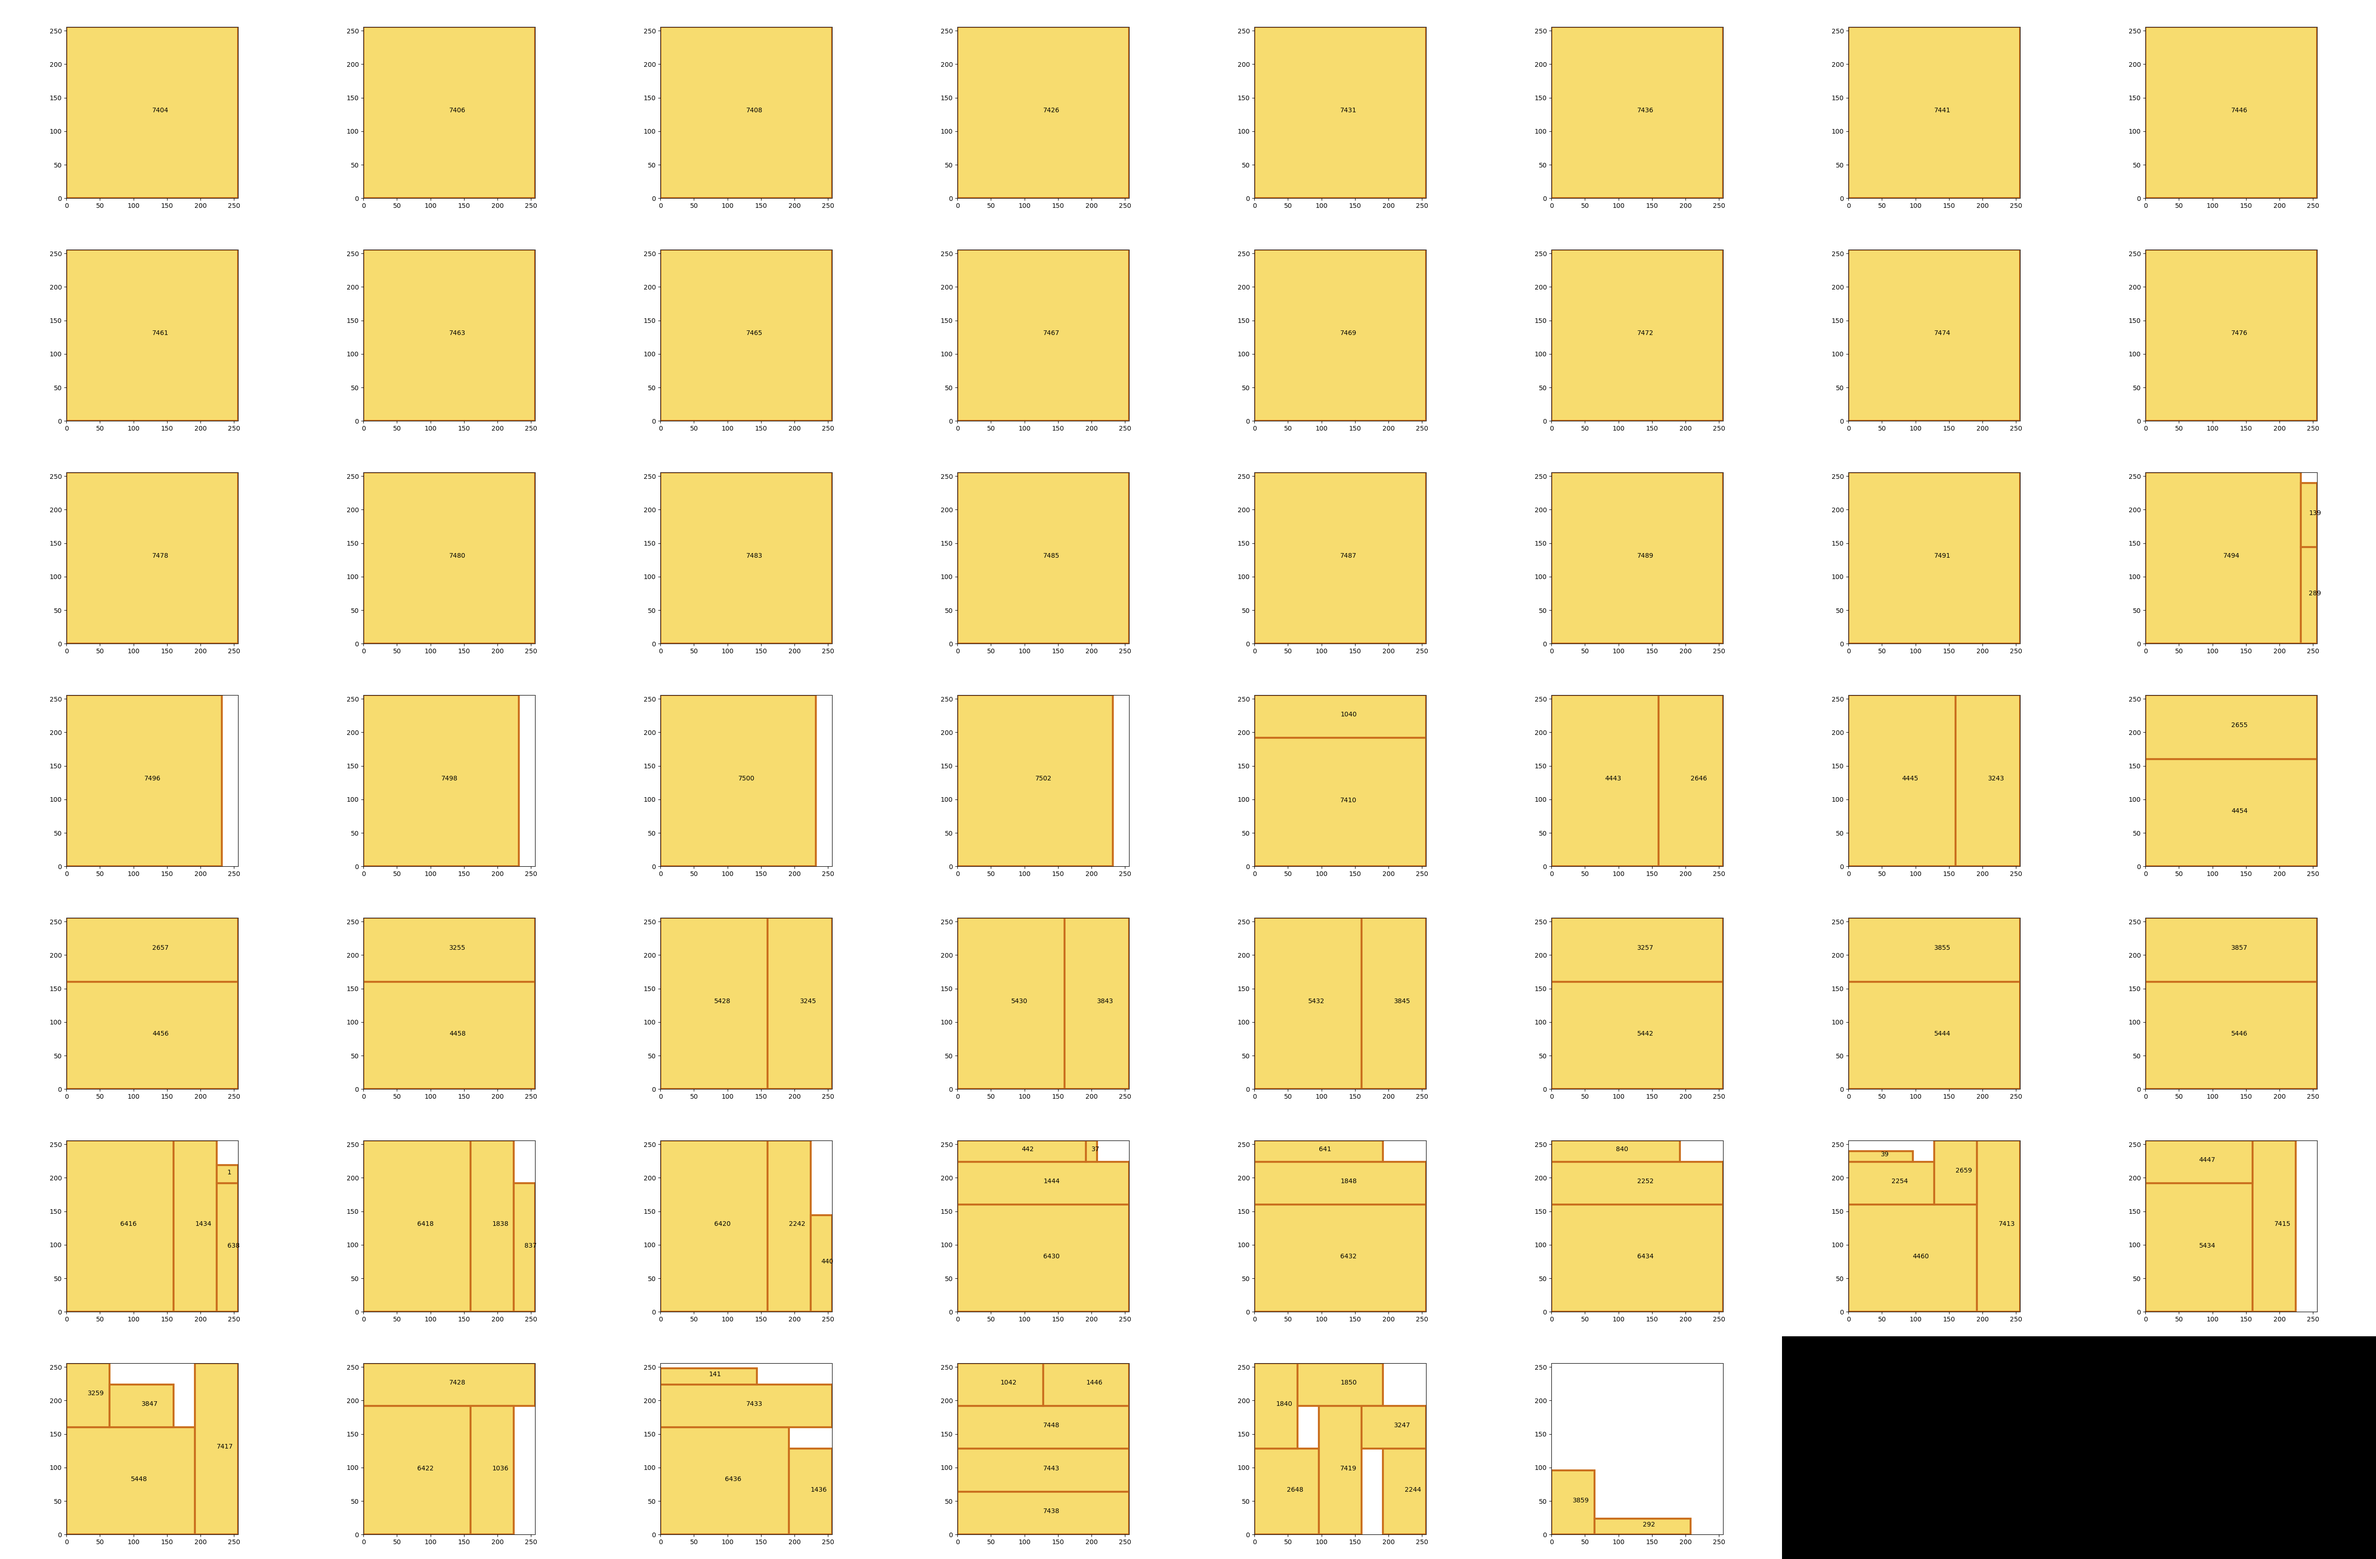
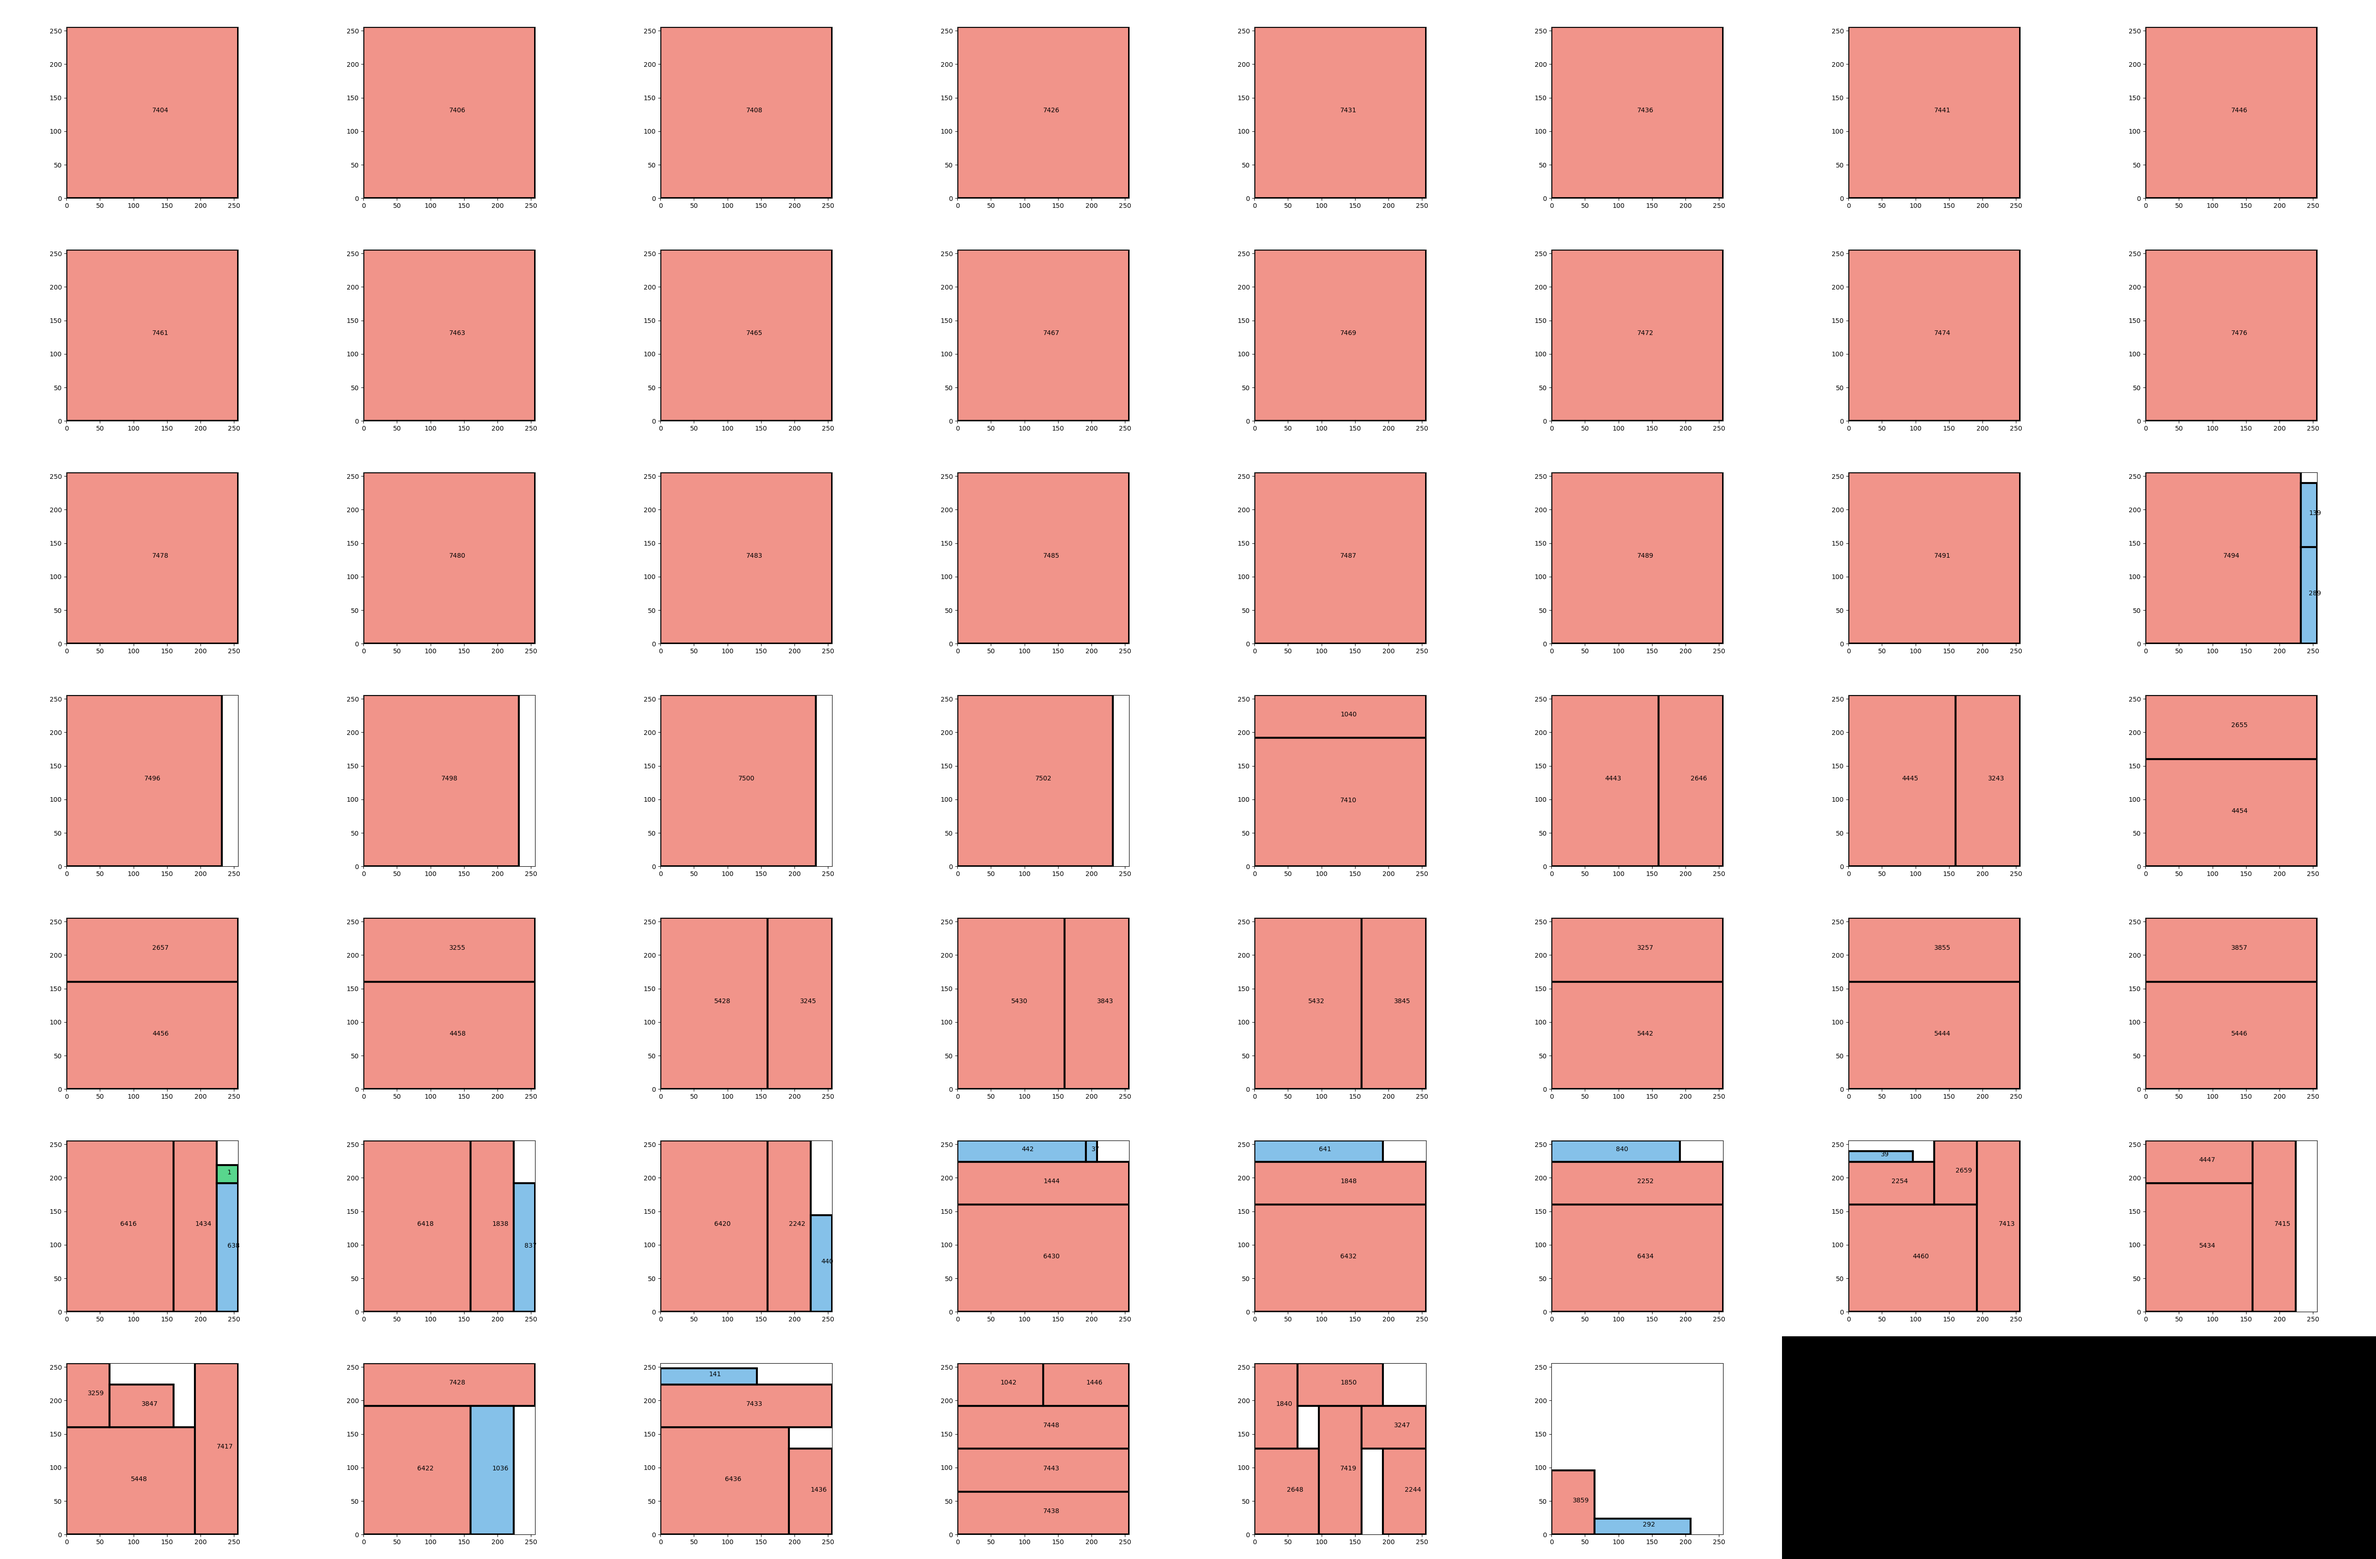
coloring by separable type

diff --git a/hwacctools/bin_packing/packer_utils.py b/hwacctools/bin_packing/packer_utils.py
@@ -5,6 +5,7 @@ import matplotlib.pyplot as plt
 from matplotlib import patches
 import os
 from tqdm import tqdm
+from PIL import Image
 
 def plot_bins(packer,
                  dir : str
@@ -47,6 +48,7 @@ def plot_bins(packer,
 def plot_packing(packer,
                  filename : str,
                  tile_count_h : int = 8,
+                 color_dict = None
                  ):
     '''
     Plots the bins together and saves a single image
@@ -62,17 +64,25 @@ def plot_packing(packer,
             x, y, w, h = rect.x, rect.y, rect.width, rect.height
             plt.axis([0,bw,0,bh])
             # print('rectangle', w,h)
+
+            facecolor = "#f7dc6f"
+            edgecolor = "#ca6f1e"
+
+            if color_dict is not None:
+                if rect.rid in color_dict.keys():
+                    facecolor = color_dict[rect.rid]
+
             ax.add_patch(
                 patches.Rectangle(
                     (x, y),  # (x,y)
                     w,          # width
                     h,          # height
-                    facecolor="#f7dc6f",
-                    edgecolor="#ca6f1e",
+                    facecolor=facecolor,
+                    edgecolor="black",
                     linewidth=3
                 )
-            )
-    
+            )                
+ 
             center_x = x + w/2
             center_y = y + h/2
             ax.annotate(str(rect.rid),(center_x,center_y))
@@ -97,8 +107,6 @@ def plot_packing(packer,
         plt.close(fig)
 
     result.save(f'{filename}.png')
-
-from PIL import Image
 
 def combine_bin_pictures(name : str, 
                          path = './bin_figures',

diff --git a/hwacctools/comp_graph/cgraph.py b/hwacctools/comp_graph/cgraph.py
@@ -177,6 +177,32 @@ class Cgraph(object):
             node.rid = id
         return shapes
 
+    def color_by_separable_type(self):
+        '''
+        Colors pointwise, depthwise, gemms, and conv nodes.
+        '''
+
+        for node in self.nodes:
+            if 'gemm' in str(type(node)):
+                node.color = '#f1948a'
+            elif 'conv' in str(type(node)):
+                if node.kernel.shape[-2:] == (1,1): # Pointwise
+                    node.color = '#85c1e9'
+                else:
+                    node.color = '#58d68d'
+
+        return self.generate_color_dict()
+
+    def generate_color_dict(self):
+        '''
+        Generates a color dictionary for the nodes in the cgraph
+        '''
+        color_dict = dict()
+        for node in self.nodes:
+            if hasattr(node,'color') and hasattr(node,'rid'):
+                color_dict[node.rid] = node.color
+        return color_dict
+
 def split_convolutions(in_cgraph:Cgraph,H:int,W:int):
     '''
     Limits the cgraph's matrices to a size limit of H, W.
@@ -196,3 +222,4 @@ def split_convolutions(in_cgraph:Cgraph,H:int,W:int):
             new_nodes.append(node)
 
     return Cgraph(new_nodes)
+
